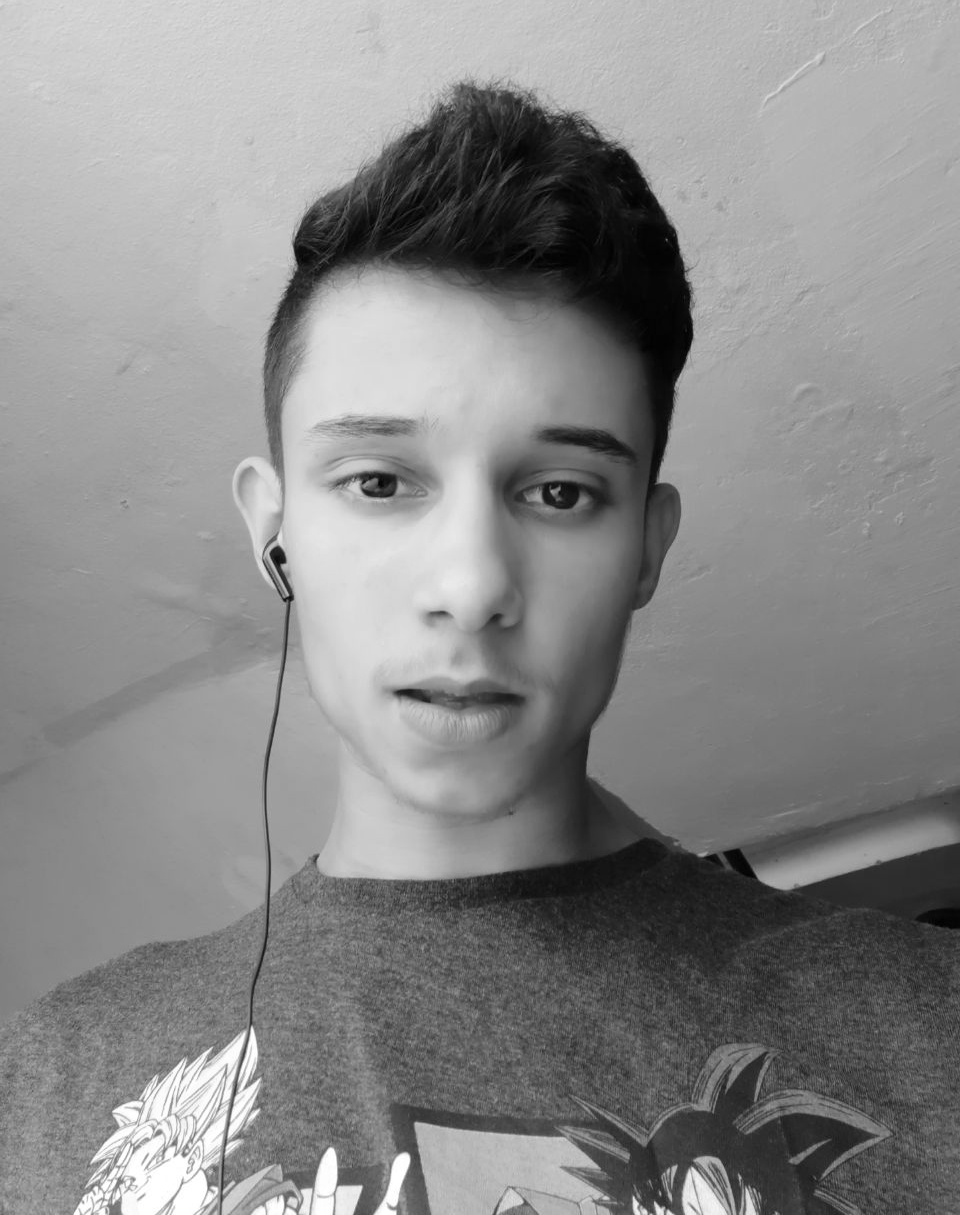
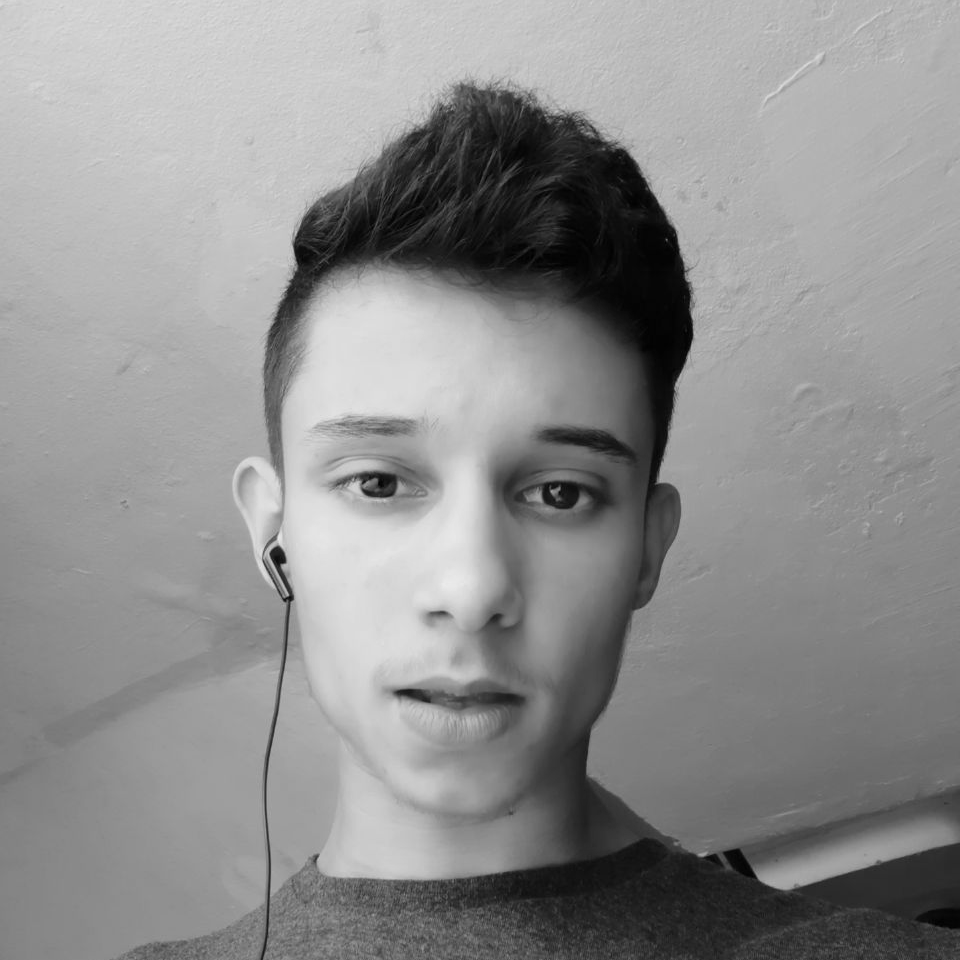
adding new members pictures

diff --git a/index.html b/index.html
@@ -761,6 +761,39 @@
               </div>
             </div>
           </div>
+          
+          <div class="col-lg-2 col-md-3 col-sm-4 col-5 mr-auto ml-auto wow fadeInUp" data-wow-delay="0.1s">
+            <div class="member">
+              <img src="img/team/Moukhtar BENHATCHI.jfif" class="img-fluid" alt="" style="filter: grayscale(100%);">
+              <div class="member-info">
+                <div class="member-info-content">
+                  <h4>Moukhtar BENHATCHI</h4>
+                </div>
+              </div>
+            </div>
+          </div>
+          
+          <div class="col-lg-2 col-md-3 col-sm-4 col-5 mr-auto ml-auto wow fadeInUp" data-wow-delay="0.1s">
+            <div class="member">
+              <img src="img/team/Riheb smaine el kahili.jpg" class="img-fluid" alt="" style="filter: grayscale(100%);">
+              <div class="member-info">
+                <div class="member-info-content">
+                  <h4>Riheb smaine el kahili</h4>
+                </div>
+              </div>
+            </div>
+          </div>
+          
+          <div class="col-lg-2 col-md-3 col-sm-4 col-5 mr-auto ml-auto wow fadeInUp" data-wow-delay="0.1s">
+            <div class="member">
+              <img src="img/team/Zakaria boukernafa.png" class="img-fluid" alt="" style="filter: grayscale(100%);">
+              <div class="member-info">
+                <div class="member-info-content">
+                  <h4>Zakaria boukernafa</h4>
+                </div>
+              </div>
+            </div>
+          </div>
 
 
         </div>
